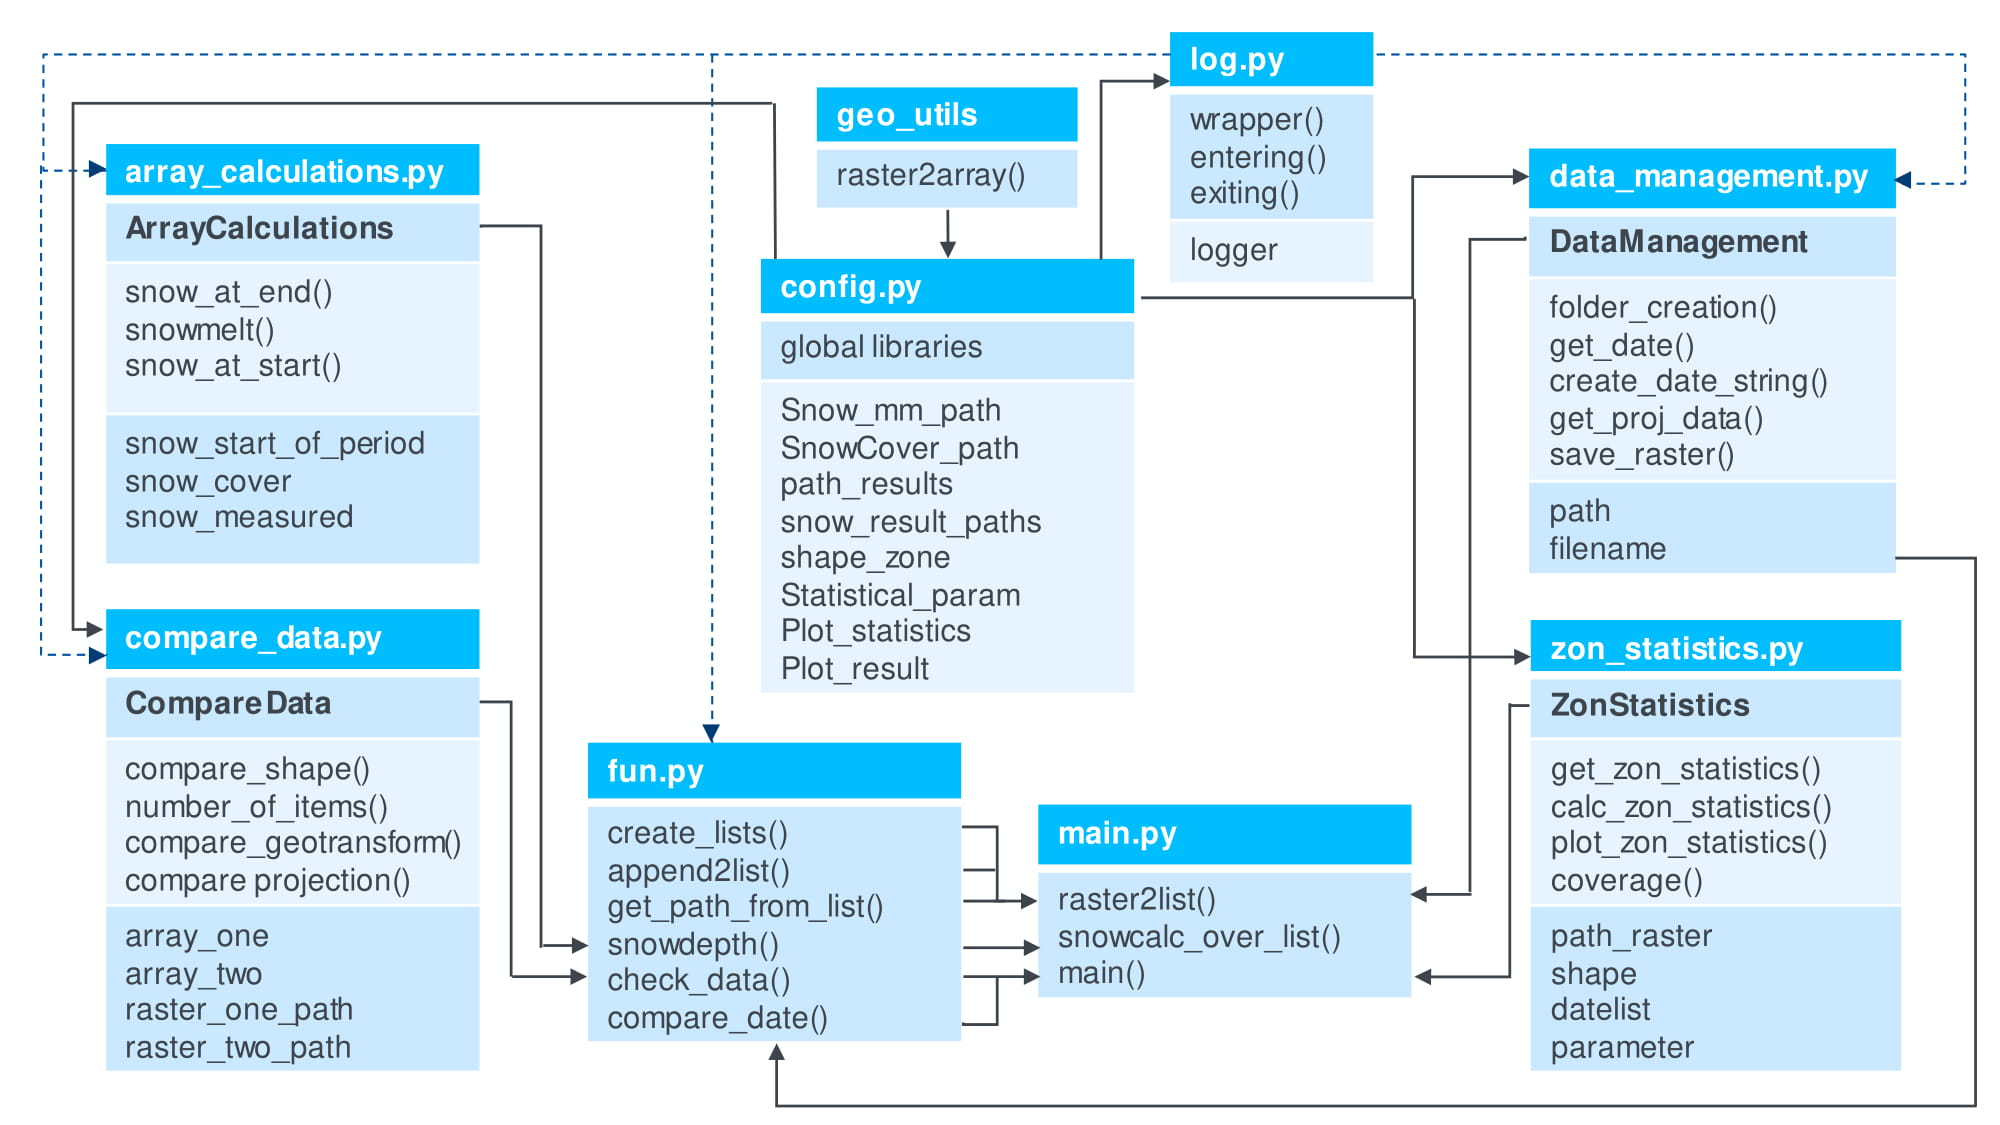
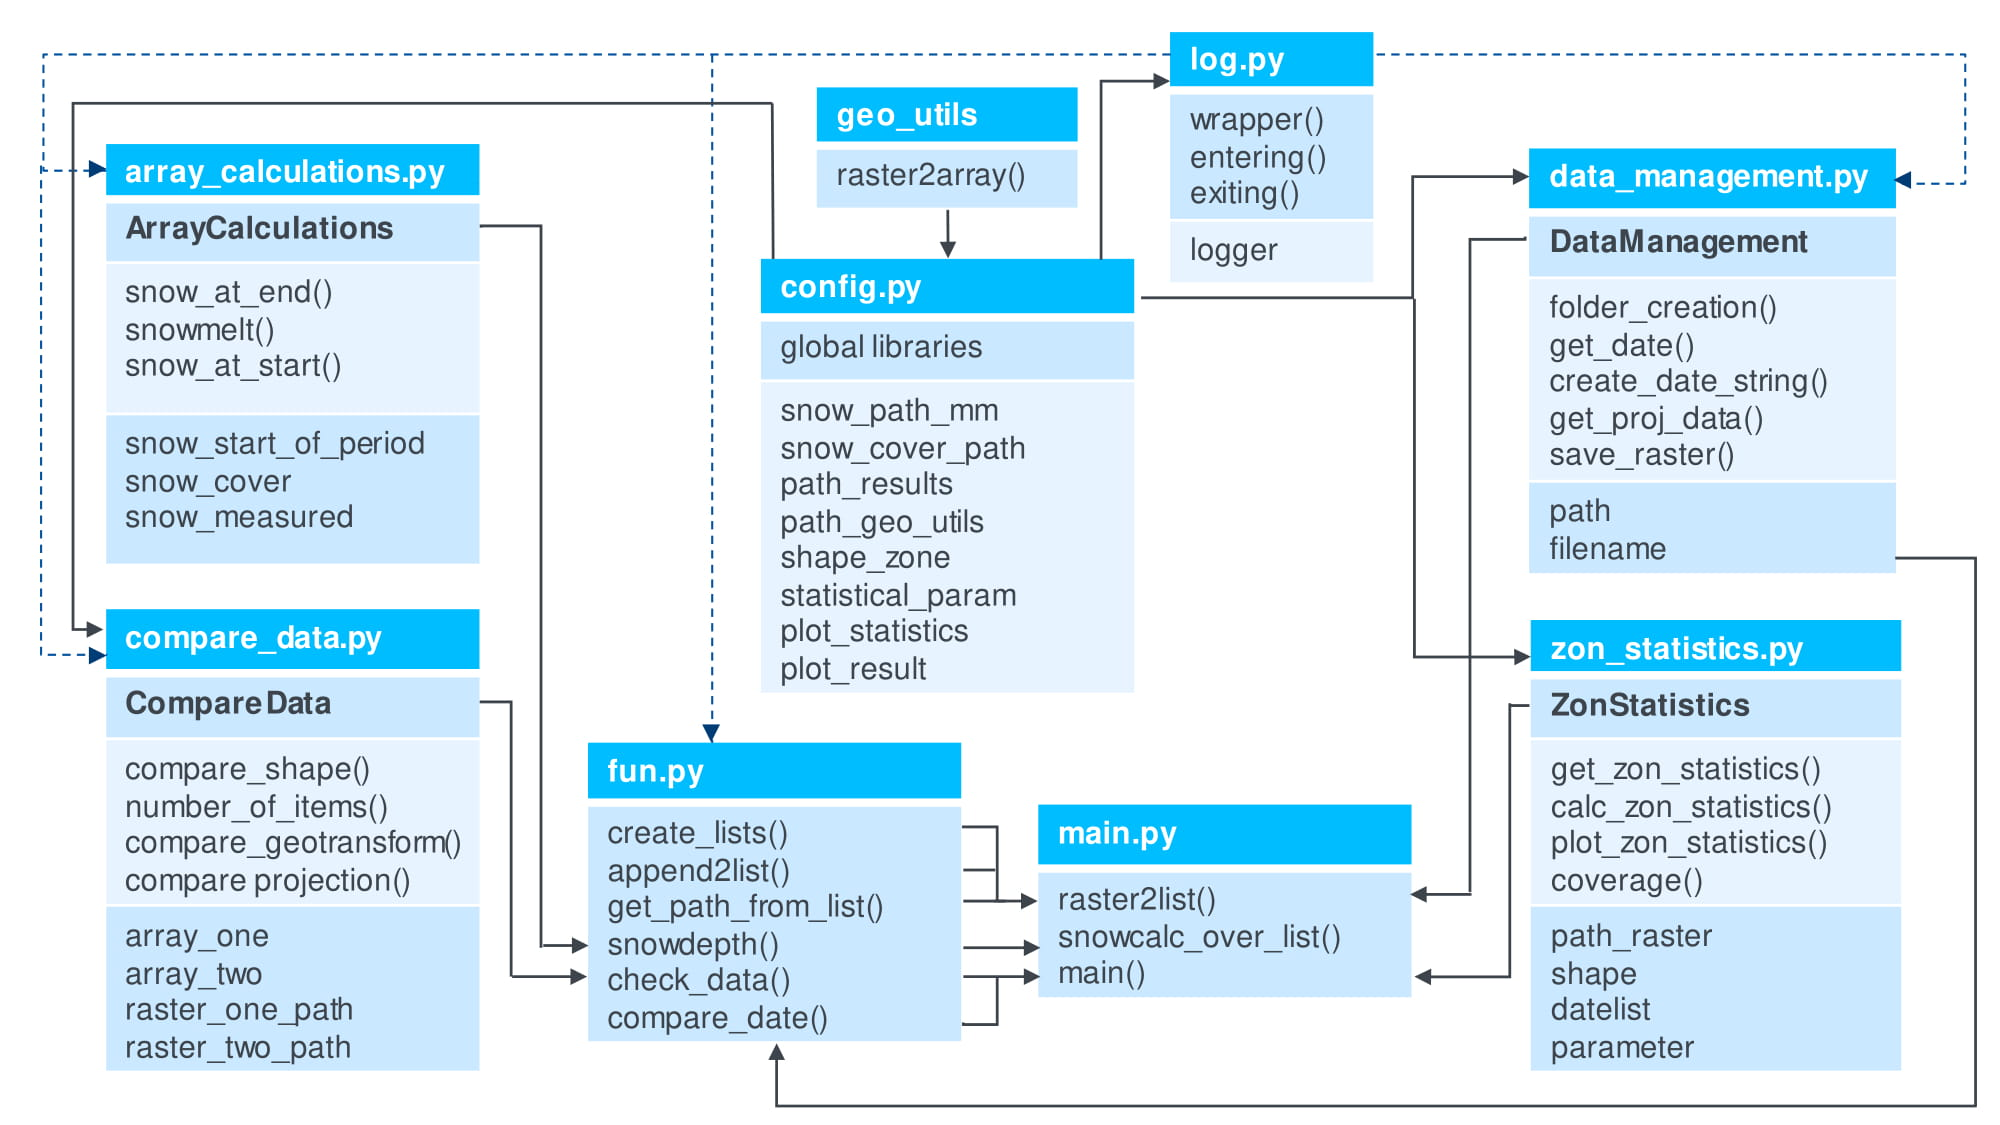
Updated readme

Changed region(s): [[0.372, 0.3422, 0.527, 0.6222], [0.155, 0.1244, 0.217, 0.1867]]

diff --git a/Project_Codes/fun.py b/Project_Codes/fun.py
@@ -52,7 +52,7 @@ def compare_date(filename_one, filename_two):
     :param filename_one: STR of filename one
     :param filename_two: STR of filename two
     """
-    # filename attribute is not used and therefore set to a random value
+    # path attribute is not used and therefore set to a random value
     manage_raster_one = DataManagement(path=0, filename=filename_one)
     manage_raster_two = DataManagement(path=0, filename=filename_two)
     if not manage_raster_one.get_date() == manage_raster_two.get_date():

diff --git a/README.md b/README.md
@@ -20,15 +20,20 @@ The following figure provides a highly simplified overview. Details can be found
 ## Libraries
 
 *Python* libraries: *geo_utils*, *gdal*, *matplotlib.pyplot*, *numpy*, *pandas*, *rasterstats*, *scipy*
-
+> The geo_utils package can be downloaded [here](https://geo-utils.readthedocs.io/en/latest/) and/or the path where the package is saved can be defined in the config.py file.
 
 *Standard* libraries: *glob*, *logging*, *os*, *sys*, *time*
 
 ## Input Data
 
-The filenames of the input rasters have to include the date (**MM_YY**) in the following way:
+The following rasters have to be provided to run the code:
+1. Raster of measured snow depth 
+2. Raster of satellite data of the snow cover with the values 0 and 1, describing if there is snow (1) or if there is not (0)
+3. Shapefile defining the zone for the statistical calculations 
 
-***MM_YY**.*tif*
+Both rasters listed in 1. and 2. have to be provided as `.tif` rasters and have to include the month and the year in the following way:
+
+>***yy_mm**.tif
 
 # Code diagram
 ![diagram](https://raw.githubusercontent.com/KMouris/Python-Course-Project/main/Code_diagram.jpg)
@@ -40,9 +45,10 @@ File where all required libraries and global variables are loaded. The following
 
 | Input argument | Type | Description |
 |-----------------|------|-------------|
-|`Snow_mm_path`| STRING | Path of measured snow depth rasters |
-|`SnowCover_path`| STRING | Path of rasters of satellite data describing the snow cover|
+|`snow_path_mm`| STRING | Path of measured snow depth rasters |
+|`snow_cover_path`| STRING | Path of rasters of satellite data describing the snow cover|
 |`path_results`| STRING | Path of the results folders |
+|`path_geo_utils`| STRING | Path where geo_utils package is stored |
 |`shape_zone`| STRING | Path of shapefile used for zonal statistics |
 |`statistical_param`| STRING | Statistical parameter which is/are plotted |
 |`plot_statistics`| BOOL | Dis- or enable plotting |
